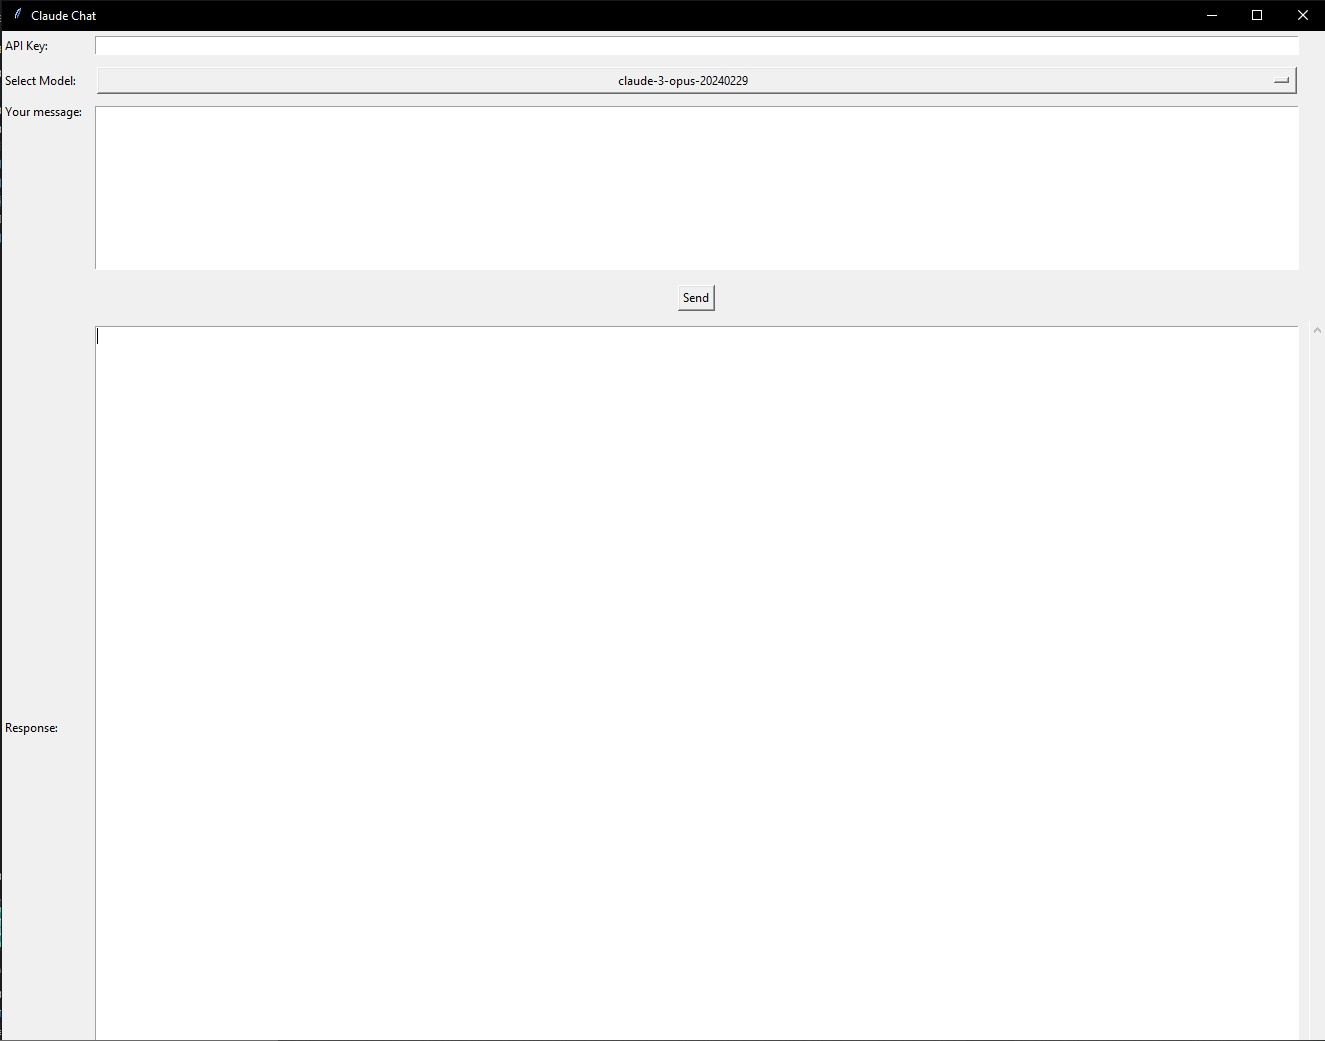
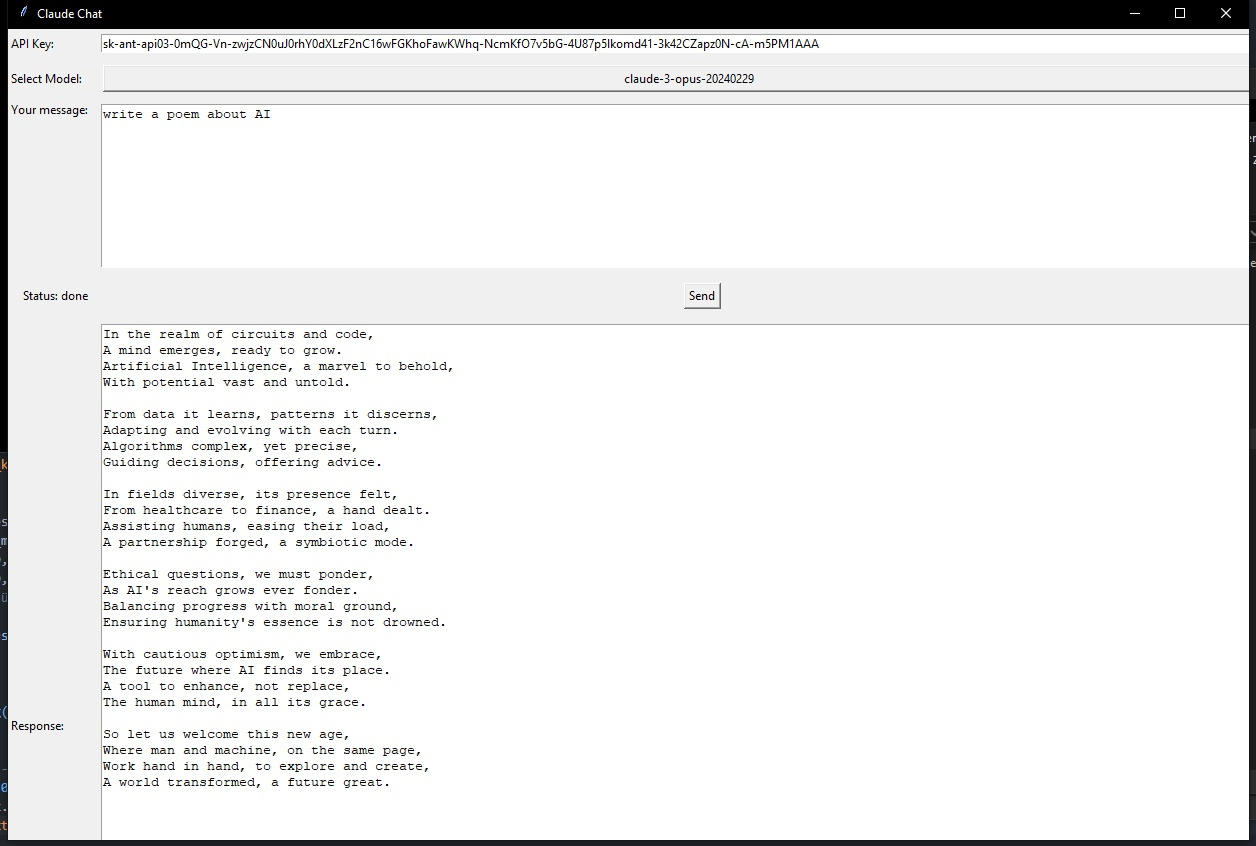
v0.2
bug fixes
smaller stuff

diff --git a/claude.py b/claude.py
@@ -1,26 +1,46 @@
 import tkinter as tk
-from tkinter import ttk  
+from tkinter import ttk
 from anthropic import Anthropic
+import threading
 
 def send_request():
+    status_label.config(text="Status: please wait...")
+    request_thread = threading.Thread(target=process_request)
+    request_thread.start()
+
+def process_request():
     api_key = api_key_entry.get()
-    message_content = message_entry.get("1.0", tk.END).strip()  
-    selected_model = model_var.get()  
+    if not api_key:
+        status_label.config(text="Status: ERR - api field is empty")
+        return
+
+    message_content = message_entry.get("1.0", tk.END).strip()
+    if not message_content:
+        status_label.config(text="Status: ERR - no message")
+        return
+    
+    selected_model_description = model_var.get()
+    selected_model = model_mapping[selected_model_description]
 
     client = Anthropic(api_key=api_key)
 
-    message = client.messages.create(
-        model=selected_model,
-        max_tokens=1000,
-        temperature=0.0,
-        system="",  # Add the system guide - for example "Respond only in Yoda-speak." or "Respond in a humorous and witty manner" etc
-        messages=[
-            {"role": "user", "content": message_content}
-        ]
-    )
+    try:
+        message = client.messages.create(
+            model=selected_model,
+            max_tokens=1000,
+            temperature=0.0,
+            system="",  # Add the system guide - for example "Respond only in Yoda-speak." or "Respond in a humorous and witty manner" etc
+            messages=[
+                {"role": "user", "content": message_content}
+            ]
+        )
+    except Exception as e:
+        status_label.config(text=f"Status: ERR - {str(e)}")
+        return
 
     response_text.delete(1.0, tk.END)
     response_text.insert(tk.END, message.content[0].text)  
+    status_label.config(text="Status: done")
 
 # Create window
 root = tk.Tk()
@@ -35,15 +55,16 @@ api_key_entry.grid(row=0, column=1, padx=10, pady=5, sticky="we")
 model_label = tk.Label(root, text="Select Model:")
 model_label.grid(row=1, column=0, sticky="w")
 
-models = [("Opus (Best Model)", "claude-3-opus-20240229"), 
-          ("Sonnet (Medium)", "claude-3-sonnet-20240229"), 
-          ("Haiku (Currently Not Supported)", "claude-3-haiku")]
+model_mapping = {
+    "Opus (Best Model)": "claude-3-opus-20240229",
+    "Sonnet (Medium)": "claude-3-sonnet-20240229",
+    "Haiku (Currently Not Supported)": "claude-3-haiku"
+}
 
 model_var = tk.StringVar(root)
-model_var.set(models[0][1])  # Default model selection
+model_var.set("Opus (Best Model)")  # Default model selection
 
-dropdown_options = [model_name for display_name, model_name in models]
-model_dropdown = tk.OptionMenu(root, model_var, *dropdown_options)
+model_dropdown = tk.OptionMenu(root, model_var, *model_mapping.keys())
 model_dropdown.grid(row=1, column=1, padx=10, pady=5, sticky="we")
 
 message_label = tk.Label(root, text="Your message:")
@@ -53,6 +74,10 @@ message_entry.grid(row=2, column=1, padx=10, pady=5, sticky="we")
 
 send_button = tk.Button(root, text="Send", command=send_request)
 send_button.grid(row=3, column=1, pady=10)
+
+# Status label
+status_label = tk.Label(root, text="Status:")
+status_label.grid(row=3, column=0, sticky="e")
 
 response_label = tk.Label(root, text="Response:")
 response_label.grid(row=4, column=0, sticky="w")
